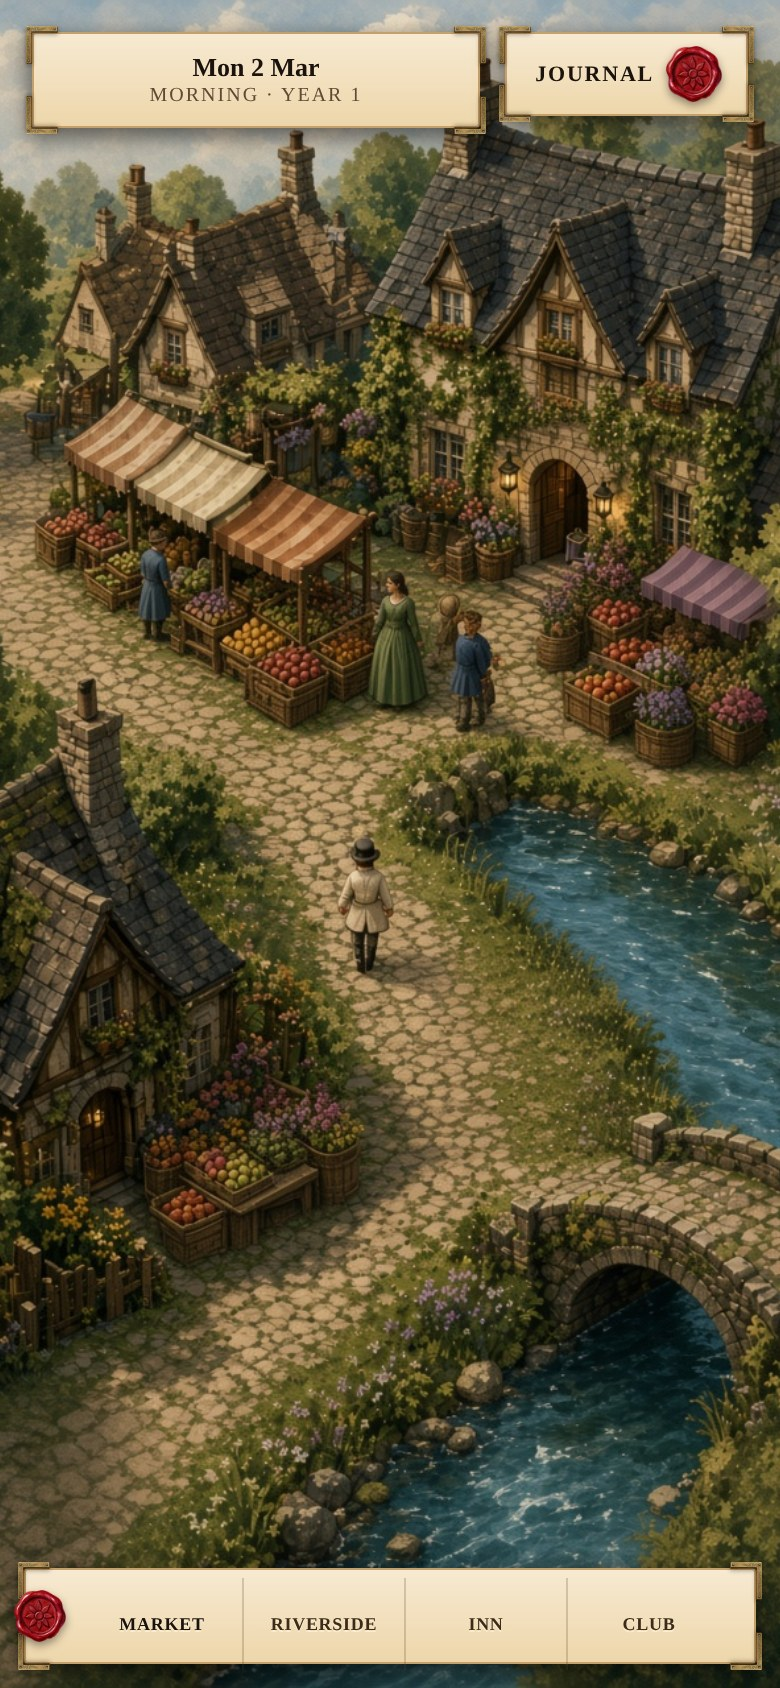
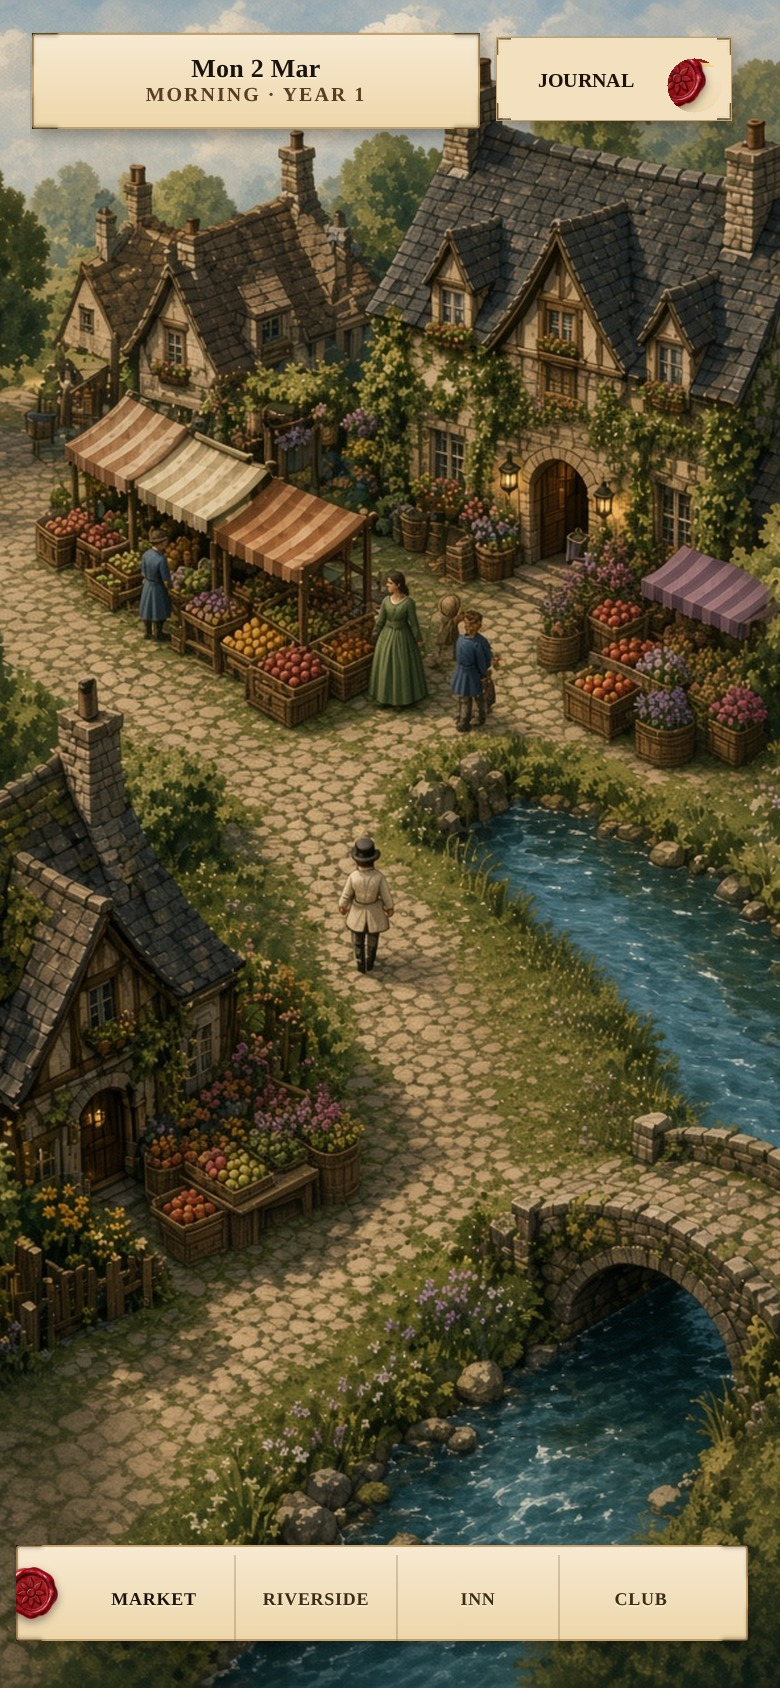
Put the saved town-corners HUD cutouts on the isometric Market mock.
These are the reusable map buttons from 58325a8 (date, journal, place),
not date_frame scrolls and not a CSS rebuild of the plaques.

Changed region(s): [[0.0, 0.8934, 0.9846, 1.0], [0.0, 0.0, 0.9846, 0.0924], [0.4615, 0.0, 0.5231, 0.0308]]

diff --git a/mockups/isometric-town/market-phone.html b/mockups/isometric-town/market-phone.html
@@ -6,7 +6,6 @@
 <title>Lythmere Market</title>
 <style>
   html,body{margin:0;height:100%;background:#1c1612;overflow:hidden}
-  button{font:inherit;color:inherit;-webkit-appearance:none;appearance:none;cursor:pointer}
   #visualShell{
     position:relative;width:100%;height:100dvh;height:100vh;overflow:hidden;background:#2a241e;
   }
@@ -14,194 +13,35 @@
     position:absolute;inset:0;
     background:#2a241e url("./lythmere-market-scene.jpg") center / cover no-repeat;
   }
-
-  /* v38 — top chrome is a padded flex row. Date shrinks; Journal stays fully on-screen. */
-  #visualShell .worldTopbar{
-    position:absolute;z-index:40;left:0;right:0;top:0;
-    display:flex;flex-direction:row;flex-wrap:nowrap;
-    align-items:flex-start;justify-content:space-between;gap:10px;
-    padding:max(16px, calc(env(safe-area-inset-top, 0px) + 10px)) max(16px, calc(env(safe-area-inset-right, 0px) + 10px)) 0 max(16px, calc(env(safe-area-inset-left, 0px) + 10px));
-    box-sizing:border-box;pointer-events:none;background:transparent;border:0;
+  /* Reusable map HUD — the town-corners cutouts from commit 58325a8, not date_frame scrolls. */
+  .hudDate,.hudJournal,.hudPlace{
+    position:absolute;z-index:40;pointer-events:none;
+    filter:drop-shadow(0 4px 8px rgba(0,0,0,.4));
   }
-  #visualShell .worldTopbar #advanceTime,
-  #visualShell .worldTopbar .worldActions{pointer-events:auto}
-  #visualShell .worldActions{flex:0 0 auto;display:flex;position:relative}
-
-  /* Live scroll well (used as the inner row; parchment mid image is NOT used). */
-  #visualShell .scrollPlaque{
-    display:flex;flex-direction:row;flex-wrap:nowrap;align-items:stretch;
-    gap:0;padding:0;margin:0;border:0;background:none;
-    overflow:visible;box-sizing:border-box;
+  .hudDate{
+    top:max(16px, env(safe-area-inset-top, 0px) + 10px);
+    left:max(16px, env(safe-area-inset-left, 0px) + 10px);
+    height:48px;width:auto;
   }
-  #visualShell .scrollWell{
-    flex:1 1 auto;min-width:0;position:relative;z-index:1;
-    display:flex;align-items:center;justify-content:center;gap:8px;
-    margin:0;padding:0 10px;border:0;background:none;
+  .hudJournal{
+    top:max(16px, env(safe-area-inset-top, 0px) + 10px);
+    right:max(16px, env(safe-area-inset-right, 0px) + 10px);
+    height:42px;width:auto;
   }
-  #visualShell .scrollCopy{
-    display:flex;flex-direction:column;align-items:center;justify-content:center;
-    text-align:center;min-width:0;overflow:hidden;
-  }
-  #visualShell #advanceTime.scrollPlaque{
-    position:relative;flex:1 1 auto;width:auto;min-width:0;
-    max-width:min(264px, calc(100% - 118px));
-  }
-  #visualShell #advanceTime .scrollCopy #visualDate,
-  #visualShell #advanceTime #visualDate{
-    font:700 13px/1.1 Georgia, "Times New Roman", serif;
-    color:#1a120c;max-width:100%;
-    overflow:hidden;text-overflow:ellipsis;white-space:nowrap;
-  }
-  #visualShell #advanceTime #visualPhase{
-    font:500 11px/1.1 Georgia, "Times New Roman", serif;
-    color:#614a34;margin-top:1px;letter-spacing:.1em;
-    max-width:100%;overflow:hidden;text-overflow:ellipsis;white-space:nowrap;
-  }
-  #visualShell #worldRecord.scrollPlaque{
-    width:auto;max-width:none;min-width:0;
-    font:800 11px/1 Georgia, "Times New Roman", serif;
-    letter-spacing:.08em;text-transform:uppercase;color:#1a120c;
-  }
-  #visualShell .locationWell{
-    display:grid;grid-template-columns:repeat(4,minmax(0,1fr));
-    align-items:stretch;height:100%;padding:0;gap:0;
-  }
-  #visualShell .locationWell button,
-  #visualShell .locationStrip button{
-    position:relative;min-height:0;height:100%;margin:0;padding:10px 4px 6px;
-    background:transparent;color:#3d2b1a;border:0;
-    border-right:1px solid rgba(90,62,38,.22);border-radius:0;
-    box-shadow:none;outline:none;filter:none;
-    font:700 11px/1.05 Georgia, "Times New Roman", serif;
-    letter-spacing:.04em;text-transform:uppercase;
-    text-shadow:0 1px 0 rgba(255,244,214,.7);
-  }
-  #visualShell .locationWell button:last-child{border-right:0}
-  #visualShell .locationWell button.active{
-    color:#1a120c;background:transparent;font-weight:800;
-  }
-
-  /* v96 live HUD — cream paper, thin gilt/oak edge, small brass corners, wax seals.
-     Scroll caps and date_frame_left/mid/right are not used. */
-  #visualShell .paperPlaque{
-    position:relative;
-    height:52px;min-height:52px;
-    border:1px solid #c4a06a;border-radius:2px;
-    background:linear-gradient(180deg,#f7ead2 0%,#edd6aa 100%);
-    box-shadow:0 4px 10px rgba(0,0,0,.35);
-    filter:drop-shadow(0 3px 6px rgba(0,0,0,.28));
-    overflow:visible;
-  }
-  #visualShell .paperPlaque .scrollWell{
-    background:none;padding:4px 16px;
-  }
-  #visualShell .paperCorners{
-    position:absolute;inset:0;z-index:5;pointer-events:none;
-  }
-  #visualShell .paperCorner{
-    position:absolute;width:24px;height:28px;object-fit:contain;pointer-events:none;
-    filter:drop-shadow(0 1px 1px rgba(0,0,0,.35));
-  }
-  #visualShell .paperCorner-tl{top:-4px;left:-4px}
-  #visualShell .paperCorner-tr{top:-4px;right:-4px;transform:scaleX(-1)}
-  #visualShell .paperCorner-bl{bottom:-4px;left:-4px;transform:scaleY(-1)}
-  #visualShell .paperCorner-br{bottom:-4px;right:-4px;transform:scale(-1)}
-  #visualShell .paperSeal{
-    width:28px;height:28px;flex:0 0 auto;object-fit:contain;
-    pointer-events:none;filter:drop-shadow(0 2px 2px rgba(0,0,0,.4));z-index:6;
-  }
-  #visualShell #advanceTime.paperPlaque{
-    height:52px;min-height:52px;min-width:0;
-  }
-  #visualShell #worldRecord.paperPlaque{
-    height:44px;min-height:44px;min-width:118px;padding:0;gap:0;
-  }
-  #visualShell #worldRecord.paperPlaque .scrollWell{
-    gap:6px;padding:4px 12px 4px 14px;
-  }
-  #visualShell #worldRecord .paperCorner{width:16px;height:19px}
-  #visualShell .locationStrip.paperPlaque{
-    position:absolute;z-index:32;left:50%;right:auto;
-    bottom:max(12px, env(safe-area-inset-bottom, 0px));
-    width:min(620px, calc(100% - 24px));
-    height:52px;min-height:52px;
+  .hudPlace{
+    left:50%;bottom:max(16px, env(safe-area-inset-bottom, 0px) + 8px);
     transform:translateX(-50%);
-    padding:0;
-  }
-  #visualShell .locationStrip.paperPlaque .scrollWell{
-    padding:4px 12px 4px 28px;
-  }
-  #visualShell .locationStrip .paperSeal-left{
-    position:absolute;left:-8px;top:50%;transform:translateY(-50%);
-    width:32px;height:32px;object-fit:contain;z-index:6;
-    filter:drop-shadow(0 2px 2px rgba(0,0,0,.4));pointer-events:none;
-  }
-  #visualShell .paperPlaque .locationWell button{padding:8px 4px}
-
-  @media(max-width:620px){
-    #visualShell #advanceTime.scrollPlaque,
-    #visualShell #advanceTime.paperPlaque{
-      max-width:min(224px, calc(100% - 110px));
-      height:48px;min-height:48px;
-    }
-    #visualShell #advanceTime #visualDate{font-size:12px}
-    #visualShell #advanceTime #visualPhase{font-size:10px}
-    #visualShell #worldRecord.paperPlaque{height:42px;min-height:42px;min-width:108px}
-    #visualShell .locationStrip.paperPlaque{height:48px;min-height:48px}
-    #visualShell .paperCorner{width:16px;height:19px}
-    #visualShell .locationStrip .paperSeal-left{width:26px;height:26px;left:-6px}
-    #visualShell .locationWell button{font-size:9px;padding:12px 2px 4px}
+    height:48px;width:min(366px, calc(100% - 24px));
+    object-fit:fill;
   }
 </style>
 </head>
 <body>
 <section id="visualShell">
   <div class="townScene" data-location="Market"></div>
-  <div class="worldTopbar">
-    <button type="button" id="advanceTime" class="scrollPlaque paperPlaque" aria-label="Pass time">
-      <span class="paperCorners" aria-hidden="true">
-        <img class="paperCorner paperCorner-tl" src="./paper_corner.png" alt="">
-        <img class="paperCorner paperCorner-tr" src="./paper_corner.png" alt="">
-        <img class="paperCorner paperCorner-bl" src="./paper_corner.png" alt="">
-        <img class="paperCorner paperCorner-br" src="./paper_corner.png" alt="">
-      </span>
-      <span class="scrollWell">
-        <span class="scrollCopy">
-          <b id="visualDate">Mon 2 Mar</b>
-          <span id="visualPhase">MORNING · YEAR 1</span>
-        </span>
-      </span>
-    </button>
-    <div class="worldActions">
-      <button id="worldRecord" class="scrollPlaque scrollPlaque-sm paperPlaque" type="button" aria-label="Open journal">
-        <span class="paperCorners" aria-hidden="true">
-          <img class="paperCorner paperCorner-tl" src="./paper_corner.png" alt="">
-          <img class="paperCorner paperCorner-tr" src="./paper_corner.png" alt="">
-          <img class="paperCorner paperCorner-bl" src="./paper_corner.png" alt="">
-          <img class="paperCorner paperCorner-br" src="./paper_corner.png" alt="">
-        </span>
-        <span class="scrollWell">
-          <span id="worldRecordLabel">Journal</span>
-          <img class="paperSeal" src="./paper_seal.png" alt="">
-        </span>
-      </button>
-    </div>
-  </div>
-  <nav class="locationStrip scrollPlaque scrollPlaque-wide paperPlaque" id="locationStrip" aria-label="Lythmere locations">
-    <span class="paperCorners" aria-hidden="true">
-      <img class="paperCorner paperCorner-tl" src="./paper_corner.png" alt="">
-      <img class="paperCorner paperCorner-tr" src="./paper_corner.png" alt="">
-      <img class="paperCorner paperCorner-bl" src="./paper_corner.png" alt="">
-      <img class="paperCorner paperCorner-br" src="./paper_corner.png" alt="">
-    </span>
-    <img class="paperSeal paperSeal-left" src="./paper_seal.png" alt="">
-    <div class="scrollWell locationWell">
-      <button type="button" class="active" data-loc="Market">Market</button>
-      <button type="button" data-loc="Riverside">Riverside</button>
-      <button type="button" data-loc="Inn">Inn</button>
-      <button type="button" data-loc="Card Club" title="Card Club">Club</button>
-    </div>
-  </nav>
+  <img class="hudDate" src="./hud/town-corners-date.png" alt="Mon 2 Mar, morning year 1">
+  <img class="hudJournal" src="./hud/town-corners-journal.png" alt="Journal">
+  <img class="hudPlace" src="./hud/town-corners-place.png" alt="Market, Riverside, Inn, Club">
 </section>
 </body>
 </html>

diff --git a/mockups/isometric-town/README.md b/mockups/isometric-town/README.md
@@ -13,7 +13,7 @@ You are a tiny cream-coat avatar. People are other walkers. Places are buildings
 7. **Travel** — coach on the road.
 
 Hero: `mockups/display-more/07-isometric-town.jpg`.  
-**Lythmere Market as it will show on the phone:** `lythmere-market-ingame.jpg` (Monday morning — you, Tomas, Nessa). HUD is the **live-game cream oak plaques** (compact paper fill, thin gilt/oak edge, small brass corners, wax seals on Journal and the current place). Not rolled-scroll `date_frame_*` caps, not oversized photo-corner parchment. Source: `market-phone.html`, cloning v38 top bar + v96 `paperPlaque` from live town chrome.  
+**Lythmere Market as it will show on the phone:** `lythmere-market-ingame.jpg` (Monday morning — you, Tomas, Nessa). HUD is the **saved town-corners cutouts** from commit `58325a8` (the ones made to reuse on every map screen): `hud/town-corners-date.png`, `hud/town-corners-journal.png`, `hud/town-corners-place.png`. Building blocks live on main as `assets/ui/paper_corner.png` + `assets/ui/paper_seal.png`. Not rolled-scroll `date_frame_*`. Source: `market-phone.html`.  
 Live `index.html` still uses standees until the rebuild.
 
 Standby (do not build): board-and-pawns, View-Master.
